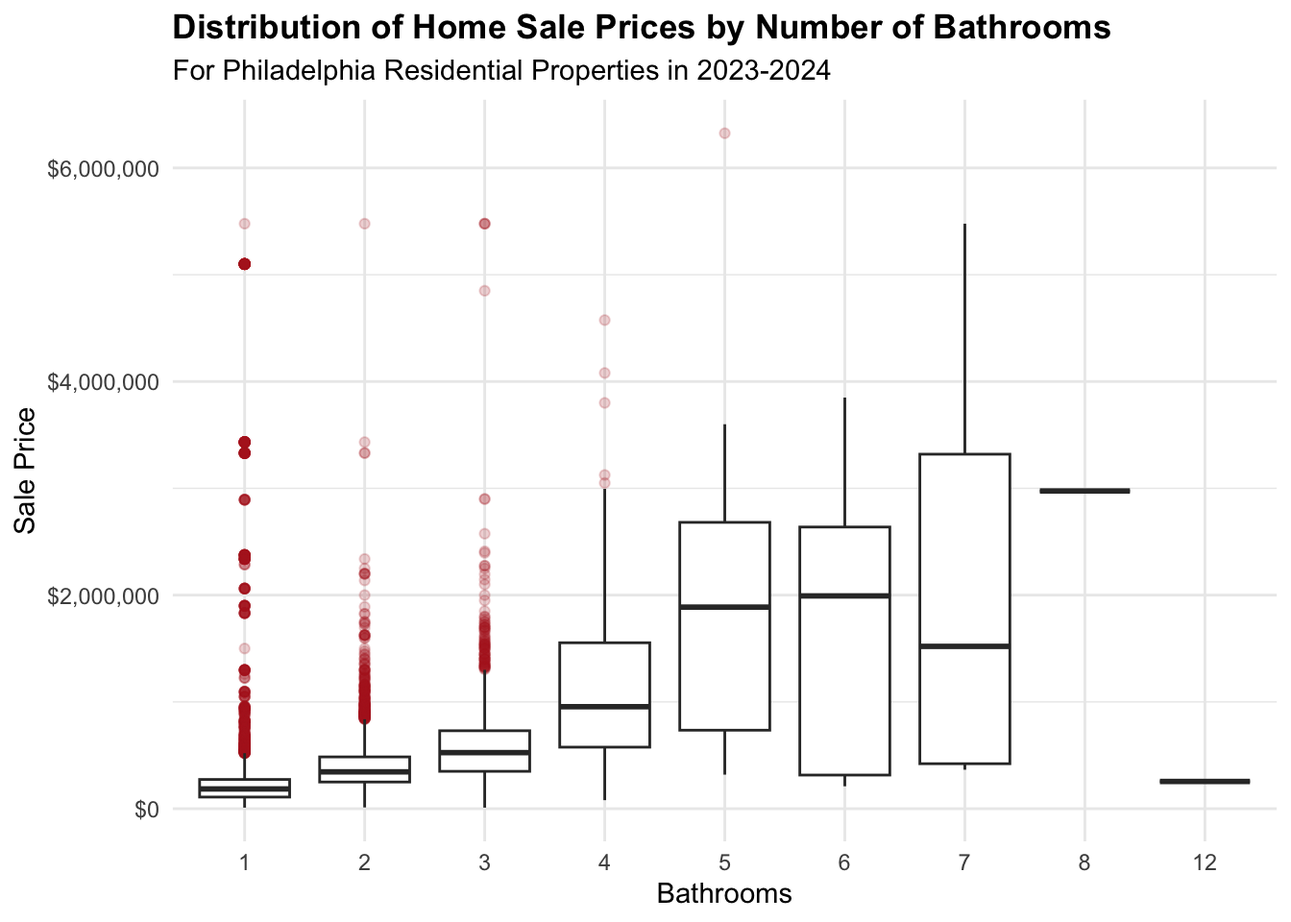
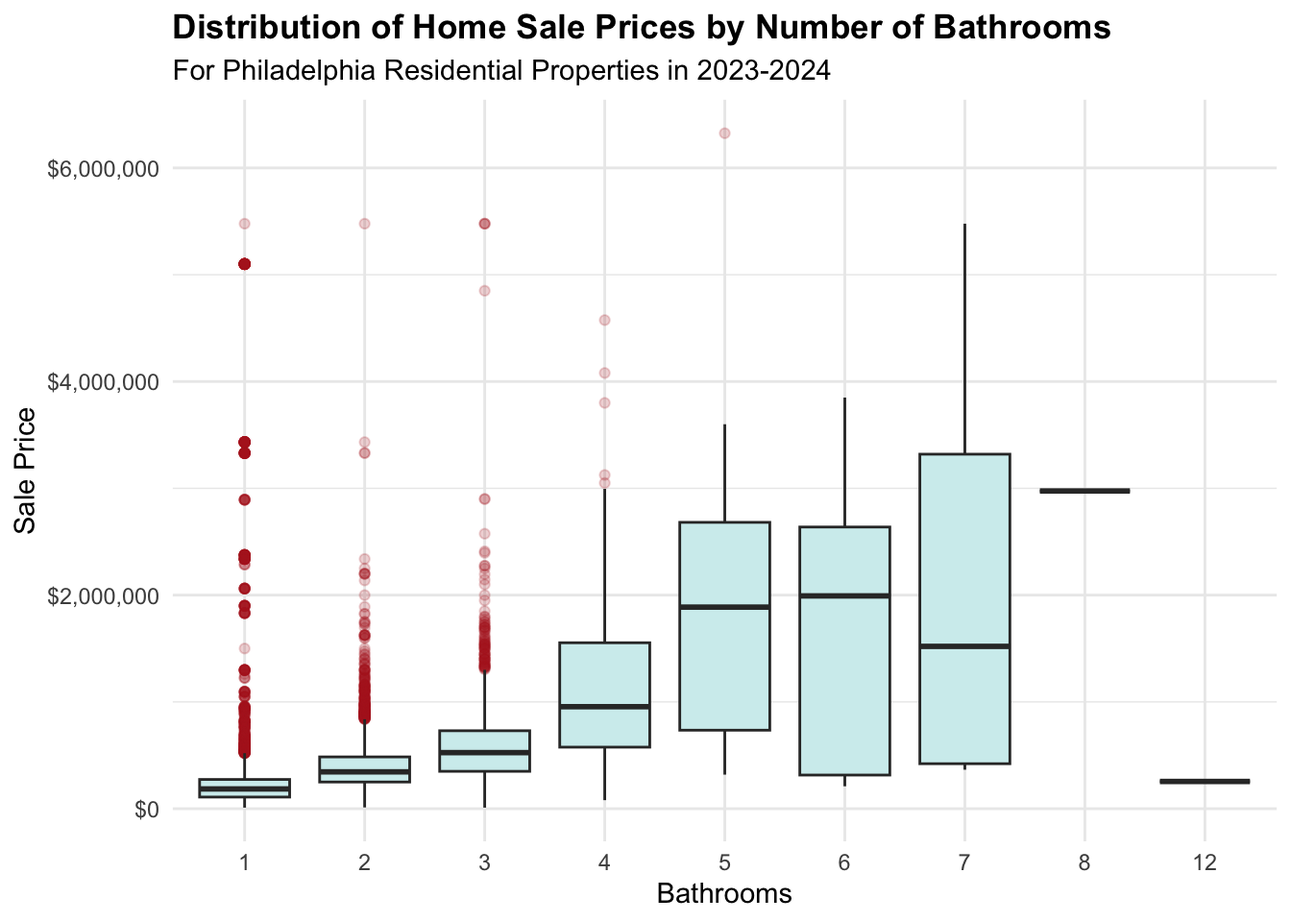
wrap up structural EDA + feature engineer from main dataset

Changed region(s): [[0.25, 0.4688, 0.7812, 0.8438], [0.1562, 0.8438, 0.2188, 0.875]]

diff --git a/docs/appendix/appendix.html b/docs/appendix/appendix.html
@@ -316,17 +316,28 @@ e.g.:
 <section id="distribution-of-sale-prices-histogram" class="level3">
 <h3 class="anchored" data-anchor-id="distribution-of-sale-prices-histogram">Distribution of sale prices (histogram)</h3>
 <div class="cell">
-<div class="code-copy-outer-scaffold"><div class="sourceCode cell-code" id="cb8"><pre class="sourceCode r code-with-copy"><code class="sourceCode r"><span id="cb8-1"><a href="#cb8-1" aria-hidden="true" tabindex="-1"></a><span class="fu">ggplot</span>(phl_sales_clean, <span class="fu">aes</span>(sale_price)) <span class="sc">+</span></span>
-<span id="cb8-2"><a href="#cb8-2" aria-hidden="true" tabindex="-1"></a>  <span class="fu">geom_histogram</span>(<span class="at">bins =</span> <span class="dv">60</span>, <span class="at">fill =</span> <span class="st">"darkseagreen3"</span>, <span class="at">color =</span> <span class="st">"black"</span>) <span class="sc">+</span></span>
-<span id="cb8-3"><a href="#cb8-3" aria-hidden="true" tabindex="-1"></a>  <span class="fu">scale_x_continuous</span>(<span class="at">labels =</span> <span class="fu">label_dollar</span>()) <span class="sc">+</span></span>
-<span id="cb8-4"><a href="#cb8-4" aria-hidden="true" tabindex="-1"></a>  <span class="fu">labs</span>(<span class="at">title =</span> <span class="st">"Distribution of Home Sale Prices"</span>,</span>
-<span id="cb8-5"><a href="#cb8-5" aria-hidden="true" tabindex="-1"></a>       <span class="at">subtitle =</span> <span class="st">"For Philadelphia Residential Properties in 2023-2024"</span>,</span>
-<span id="cb8-6"><a href="#cb8-6" aria-hidden="true" tabindex="-1"></a>       <span class="at">x =</span> <span class="st">"Sale Price"</span>,</span>
-<span id="cb8-7"><a href="#cb8-7" aria-hidden="true" tabindex="-1"></a>       <span class="at">y =</span> <span class="st">"Count"</span>) <span class="sc">+</span></span>
-<span id="cb8-8"><a href="#cb8-8" aria-hidden="true" tabindex="-1"></a>  <span class="fu">theme_minimal</span>() <span class="sc">+</span></span>
-<span id="cb8-9"><a href="#cb8-9" aria-hidden="true" tabindex="-1"></a>  <span class="fu">theme</span>(</span>
-<span id="cb8-10"><a href="#cb8-10" aria-hidden="true" tabindex="-1"></a>    <span class="at">plot.title =</span> <span class="fu">element_text</span>(<span class="at">face =</span> <span class="st">"bold"</span>)</span>
-<span id="cb8-11"><a href="#cb8-11" aria-hidden="true" tabindex="-1"></a>  )</span></code></pre></div><button title="Copy to Clipboard" class="code-copy-button"><i class="bi"></i></button></div>
+<div class="code-copy-outer-scaffold"><div class="sourceCode cell-code" id="cb8"><pre class="sourceCode r code-with-copy"><code class="sourceCode r"><span id="cb8-1"><a href="#cb8-1" aria-hidden="true" tabindex="-1"></a><span class="co"># Calculate the median / mean to plot</span></span>
+<span id="cb8-2"><a href="#cb8-2" aria-hidden="true" tabindex="-1"></a>price_median <span class="ot">&lt;-</span> <span class="fu">median</span>(phl_sales_clean<span class="sc">$</span>sale_price, <span class="at">na.rm =</span> <span class="cn">TRUE</span>)</span>
+<span id="cb8-3"><a href="#cb8-3" aria-hidden="true" tabindex="-1"></a></span>
+<span id="cb8-4"><a href="#cb8-4" aria-hidden="true" tabindex="-1"></a><span class="fu">ggplot</span>(phl_sales_clean, <span class="fu">aes</span>(sale_price)) <span class="sc">+</span></span>
+<span id="cb8-5"><a href="#cb8-5" aria-hidden="true" tabindex="-1"></a>  <span class="fu">geom_histogram</span>(<span class="at">bins =</span> <span class="dv">60</span>, <span class="at">fill =</span> <span class="st">"darkseagreen3"</span>, <span class="at">color =</span> <span class="st">"black"</span>) <span class="sc">+</span></span>
+<span id="cb8-6"><a href="#cb8-6" aria-hidden="true" tabindex="-1"></a>  <span class="fu">geom_vline</span>(<span class="at">xintercept =</span> price_median, <span class="at">linetype =</span> <span class="dv">5</span>) <span class="sc">+</span></span>
+<span id="cb8-7"><a href="#cb8-7" aria-hidden="true" tabindex="-1"></a>  <span class="fu">annotate</span>(<span class="st">"text"</span>,</span>
+<span id="cb8-8"><a href="#cb8-8" aria-hidden="true" tabindex="-1"></a>           <span class="at">x =</span> price_median, </span>
+<span id="cb8-9"><a href="#cb8-9" aria-hidden="true" tabindex="-1"></a>           <span class="at">y =</span> <span class="dv">6200</span>, </span>
+<span id="cb8-10"><a href="#cb8-10" aria-hidden="true" tabindex="-1"></a>           <span class="at">label =</span> <span class="st">"Median"</span>,</span>
+<span id="cb8-11"><a href="#cb8-11" aria-hidden="true" tabindex="-1"></a>           <span class="at">hjust =</span> <span class="sc">-</span><span class="fl">0.2</span>, </span>
+<span id="cb8-12"><a href="#cb8-12" aria-hidden="true" tabindex="-1"></a>           <span class="at">color =</span> <span class="st">"black"</span>, </span>
+<span id="cb8-13"><a href="#cb8-13" aria-hidden="true" tabindex="-1"></a>           <span class="at">size =</span> <span class="dv">3</span>) <span class="sc">+</span></span>
+<span id="cb8-14"><a href="#cb8-14" aria-hidden="true" tabindex="-1"></a>  <span class="fu">scale_x_continuous</span>(<span class="at">labels =</span> <span class="fu">label_dollar</span>()) <span class="sc">+</span></span>
+<span id="cb8-15"><a href="#cb8-15" aria-hidden="true" tabindex="-1"></a>  <span class="fu">labs</span>(<span class="at">title =</span> <span class="st">"Distribution of Home Sale Prices"</span>,</span>
+<span id="cb8-16"><a href="#cb8-16" aria-hidden="true" tabindex="-1"></a>       <span class="at">subtitle =</span> <span class="st">"For Philadelphia Residential Properties in 2023-2024"</span>,</span>
+<span id="cb8-17"><a href="#cb8-17" aria-hidden="true" tabindex="-1"></a>       <span class="at">x =</span> <span class="st">"Sale Price"</span>,</span>
+<span id="cb8-18"><a href="#cb8-18" aria-hidden="true" tabindex="-1"></a>       <span class="at">y =</span> <span class="st">"Count"</span>) <span class="sc">+</span></span>
+<span id="cb8-19"><a href="#cb8-19" aria-hidden="true" tabindex="-1"></a>  <span class="fu">theme_minimal</span>() <span class="sc">+</span></span>
+<span id="cb8-20"><a href="#cb8-20" aria-hidden="true" tabindex="-1"></a>  <span class="fu">theme</span>(</span>
+<span id="cb8-21"><a href="#cb8-21" aria-hidden="true" tabindex="-1"></a>    <span class="at">plot.title =</span> <span class="fu">element_text</span>(<span class="at">face =</span> <span class="st">"bold"</span>)</span>
+<span id="cb8-22"><a href="#cb8-22" aria-hidden="true" tabindex="-1"></a>  )</span></code></pre></div><button title="Copy to Clipboard" class="code-copy-button"><i class="bi"></i></button></div>
 <div class="cell-output-display">
 <div>
 <figure class="figure">
@@ -341,26 +352,26 @@ e.g.:
 <span id="cb9-2"><a href="#cb9-2" aria-hidden="true" tabindex="-1"></a>price_95_perc <span class="ot">&lt;-</span> <span class="fu">quantile</span>(phl_sales_clean<span class="sc">$</span>sale_price, <span class="fl">0.95</span>, <span class="at">na.rm =</span> <span class="cn">TRUE</span>)</span>
 <span id="cb9-3"><a href="#cb9-3" aria-hidden="true" tabindex="-1"></a>df_95_exclude <span class="ot">&lt;-</span> <span class="fu">filter</span>(phl_sales_clean, sale_price <span class="sc">&lt;=</span> price_95_perc)</span>
 <span id="cb9-4"><a href="#cb9-4" aria-hidden="true" tabindex="-1"></a></span>
-<span id="cb9-5"><a href="#cb9-5" aria-hidden="true" tabindex="-1"></a><span class="co"># Calculate the median / mean to plot (does not include top 5%)</span></span>
-<span id="cb9-6"><a href="#cb9-6" aria-hidden="true" tabindex="-1"></a>price_median <span class="ot">&lt;-</span> <span class="fu">median</span>(phl_sales_clean<span class="sc">$</span>sale_price, <span class="at">na.rm =</span> <span class="cn">TRUE</span>)</span>
-<span id="cb9-7"><a href="#cb9-7" aria-hidden="true" tabindex="-1"></a>price_mean <span class="ot">&lt;-</span> <span class="fu">mean</span>(phl_sales_clean<span class="sc">$</span>sale_price, <span class="at">na.rm =</span> <span class="cn">TRUE</span>)</span>
+<span id="cb9-5"><a href="#cb9-5" aria-hidden="true" tabindex="-1"></a><span class="co"># Calculate the median / mean to plot from trimmed distribution</span></span>
+<span id="cb9-6"><a href="#cb9-6" aria-hidden="true" tabindex="-1"></a>price_median_95_exc <span class="ot">&lt;-</span> <span class="fu">median</span>(df_95_exclude<span class="sc">$</span>sale_price, <span class="at">na.rm =</span> <span class="cn">TRUE</span>)</span>
+<span id="cb9-7"><a href="#cb9-7" aria-hidden="true" tabindex="-1"></a>price_mean_95_exc <span class="ot">&lt;-</span> <span class="fu">mean</span>(df_95_exclude<span class="sc">$</span>sale_price, <span class="at">na.rm =</span> <span class="cn">TRUE</span>)</span>
 <span id="cb9-8"><a href="#cb9-8" aria-hidden="true" tabindex="-1"></a></span>
 <span id="cb9-9"><a href="#cb9-9" aria-hidden="true" tabindex="-1"></a><span class="fu">ggplot</span>(df_95_exclude, <span class="fu">aes</span>(sale_price)) <span class="sc">+</span></span>
 <span id="cb9-10"><a href="#cb9-10" aria-hidden="true" tabindex="-1"></a>  <span class="fu">geom_histogram</span>(<span class="at">bins =</span> <span class="dv">20</span>, <span class="at">fill =</span> <span class="st">"darkseagreen3"</span>, <span class="at">color =</span> <span class="st">"black"</span>) <span class="sc">+</span></span>
-<span id="cb9-11"><a href="#cb9-11" aria-hidden="true" tabindex="-1"></a>  <span class="fu">geom_vline</span>(<span class="at">xintercept =</span> price_mean, <span class="at">linetype =</span> <span class="dv">5</span>) <span class="sc">+</span></span>
-<span id="cb9-12"><a href="#cb9-12" aria-hidden="true" tabindex="-1"></a>  <span class="fu">geom_vline</span>(<span class="at">xintercept =</span> price_median, <span class="at">linetype =</span> <span class="dv">5</span>) <span class="sc">+</span></span>
+<span id="cb9-11"><a href="#cb9-11" aria-hidden="true" tabindex="-1"></a>  <span class="fu">geom_vline</span>(<span class="at">xintercept =</span> price_mean_95_exc, <span class="at">linetype =</span> <span class="dv">5</span>) <span class="sc">+</span></span>
+<span id="cb9-12"><a href="#cb9-12" aria-hidden="true" tabindex="-1"></a>  <span class="fu">geom_vline</span>(<span class="at">xintercept =</span> price_median_95_exc, <span class="at">linetype =</span> <span class="dv">5</span>) <span class="sc">+</span></span>
 <span id="cb9-13"><a href="#cb9-13" aria-hidden="true" tabindex="-1"></a>  <span class="fu">annotate</span>(<span class="st">"text"</span>,</span>
-<span id="cb9-14"><a href="#cb9-14" aria-hidden="true" tabindex="-1"></a>           <span class="at">x =</span> price_mean,</span>
-<span id="cb9-15"><a href="#cb9-15" aria-hidden="true" tabindex="-1"></a>           <span class="at">y =</span> <span class="dv">1700</span>,</span>
+<span id="cb9-14"><a href="#cb9-14" aria-hidden="true" tabindex="-1"></a>           <span class="at">x =</span> price_mean_95_exc,</span>
+<span id="cb9-15"><a href="#cb9-15" aria-hidden="true" tabindex="-1"></a>           <span class="at">y =</span> <span class="dv">2400</span>,</span>
 <span id="cb9-16"><a href="#cb9-16" aria-hidden="true" tabindex="-1"></a>           <span class="at">label =</span> <span class="st">"Mean"</span>, </span>
 <span id="cb9-17"><a href="#cb9-17" aria-hidden="true" tabindex="-1"></a>           <span class="at">hjust =</span> <span class="sc">-</span> <span class="fl">0.1</span>, </span>
 <span id="cb9-18"><a href="#cb9-18" aria-hidden="true" tabindex="-1"></a>           <span class="at">color =</span> <span class="st">"black"</span>, </span>
 <span id="cb9-19"><a href="#cb9-19" aria-hidden="true" tabindex="-1"></a>           <span class="at">size =</span> <span class="dv">3</span>) <span class="sc">+</span></span>
 <span id="cb9-20"><a href="#cb9-20" aria-hidden="true" tabindex="-1"></a>  <span class="fu">annotate</span>(<span class="st">"text"</span>,</span>
-<span id="cb9-21"><a href="#cb9-21" aria-hidden="true" tabindex="-1"></a>           <span class="at">x =</span> price_median, </span>
-<span id="cb9-22"><a href="#cb9-22" aria-hidden="true" tabindex="-1"></a>           <span class="at">y =</span> <span class="dv">2400</span>, </span>
+<span id="cb9-21"><a href="#cb9-21" aria-hidden="true" tabindex="-1"></a>           <span class="at">x =</span> price_median_95_exc, </span>
+<span id="cb9-22"><a href="#cb9-22" aria-hidden="true" tabindex="-1"></a>           <span class="at">y =</span> <span class="dv">2450</span>, </span>
 <span id="cb9-23"><a href="#cb9-23" aria-hidden="true" tabindex="-1"></a>           <span class="at">label =</span> <span class="st">"Median"</span>,</span>
-<span id="cb9-24"><a href="#cb9-24" aria-hidden="true" tabindex="-1"></a>           <span class="at">hjust =</span> <span class="sc">-</span> <span class="fl">0.1</span>, </span>
+<span id="cb9-24"><a href="#cb9-24" aria-hidden="true" tabindex="-1"></a>           <span class="at">hjust =</span> <span class="fl">1.25</span>, </span>
 <span id="cb9-25"><a href="#cb9-25" aria-hidden="true" tabindex="-1"></a>           <span class="at">color =</span> <span class="st">"black"</span>, </span>
 <span id="cb9-26"><a href="#cb9-26" aria-hidden="true" tabindex="-1"></a>           <span class="at">size =</span> <span class="dv">3</span>) <span class="sc">+</span></span>
 <span id="cb9-27"><a href="#cb9-27" aria-hidden="true" tabindex="-1"></a>  <span class="fu">scale_x_continuous</span>(<span class="at">labels =</span> <span class="fu">label_dollar</span>()) <span class="sc">+</span></span>
@@ -382,7 +393,7 @@ e.g.:
 </div>
 </div>
 </div>
-<p><strong>Interpretation:</strong> In this revised histogram, we get a much better sense of how the sales prices are distributed without the presence of extreme outliers. As we saw before, the data is definitely right-skewed since the median ($ 235250) is less than the mean ($ 322231) even when removing large outliers from the top 5% of the distribution. We can visualize that the standard housing market in Philadelphia from 2023-2024 ranges between $0 and $800,000. The distribution has a single peak around $200,000, indicating that it is unimodal with a typical (or most common) home sale price in the realm of $150,000 to $250,000. This is an indication that it may be best to omit these significant outliers from our dataset when building our model for home sale price prediction. The homes on the higher end of the sale price distribution are determined by a combination of structural features (such total livable area) and spatial features (such as nearby city centers) that drive up the prices of these homes. The goal of this study is to determine what features, both structural and spatial, are significant in predicting home sale prices in Philadelphia and create an accurate model to help policy makers in valuating property tax assessments.</p>
+<p><strong>Interpretation:</strong> In this revised histogram, we get a much better sense of how the sales prices are distributed without the presence of extreme outliers. As we saw before, the data is definitely right-skewed since the median ($235,250) is less than the mean ($322,231) even when removing large outliers from the top 5% of the distribution. We can visualize that the standard housing market in Philadelphia from 2023-2024 ranges between $0 and $800,000. The distribution has a single peak around $200,000, indicating that it is unimodal with a typical (or most common) home sale price in the realm of $150,000 to $250,000. This is an indication that it may be best to omit these significant outliers from our dataset when building our model for home sale price prediction. The homes on the higher end of the sale price distribution are determined by a combination of structural features (such total livable area) and spatial features (such as nearby city centers) that drive up the prices of these homes. The goal of this study is to determine what features, both structural and spatial, are significant in predicting home sale prices in Philadelphia and create an accurate model to help policy makers in valuating property tax assessments.</p>
 </section>
 <section id="geographic-distribution-map" class="level3">
 <h3 class="anchored" data-anchor-id="geographic-distribution-map">Geographic distribution (map)</h3>
@@ -394,7 +405,7 @@ e.g.:
 <h4 class="anchored" data-anchor-id="number-of-bathrooms">1. Number of Bathrooms</h4>
 <div class="cell">
 <div class="code-copy-outer-scaffold"><div class="sourceCode cell-code" id="cb10"><pre class="sourceCode r code-with-copy"><code class="sourceCode r"><span id="cb10-1"><a href="#cb10-1" aria-hidden="true" tabindex="-1"></a><span class="fu">ggplot</span>(phl_sales_clean, <span class="fu">aes</span>(<span class="at">x =</span> <span class="fu">factor</span>(number_of_bathrooms), <span class="at">y =</span> sale_price)) <span class="sc">+</span></span>
-<span id="cb10-2"><a href="#cb10-2" aria-hidden="true" tabindex="-1"></a>  <span class="fu">geom_boxplot</span>(<span class="at">outlier.color =</span> <span class="st">"firebrick"</span>, <span class="at">outlier.alpha =</span> <span class="fl">0.2</span>) <span class="sc">+</span></span>
+<span id="cb10-2"><a href="#cb10-2" aria-hidden="true" tabindex="-1"></a>  <span class="fu">geom_boxplot</span>(<span class="at">fill =</span> <span class="st">"lightcyan2"</span>, <span class="at">outlier.color =</span> <span class="st">"firebrick"</span>, <span class="at">outlier.alpha =</span> <span class="fl">0.2</span>) <span class="sc">+</span></span>
 <span id="cb10-3"><a href="#cb10-3" aria-hidden="true" tabindex="-1"></a>  <span class="fu">scale_y_continuous</span>(<span class="at">labels =</span> scales<span class="sc">::</span><span class="fu">label_dollar</span>()) <span class="sc">+</span></span>
 <span id="cb10-4"><a href="#cb10-4" aria-hidden="true" tabindex="-1"></a>  <span class="fu">labs</span>(<span class="at">title =</span> <span class="st">"Distribution of Home Sale Prices by Number of Bathrooms"</span>, </span>
 <span id="cb10-5"><a href="#cb10-5" aria-hidden="true" tabindex="-1"></a>       <span class="at">subtitle =</span> <span class="st">"For Philadelphia Residential Properties in 2023-2024"</span>,</span>
@@ -415,7 +426,7 @@ e.g.:
 <p><strong>Interpretation:</strong> Since number of bathrooms is a discrete variable, a scatter plot is not suitable to visualize this predictor’s relationship with the target variable of sale price; therefore, we opted to use box plots instead. In this first plot, we see a distinct positive relationship between number of bathrooms and home sale price. Intuitively, this makes sense since homes with more bathrooms should on average sell at higher prices. Another trend is that there are more outliers in homes with less bathrooms (between 1 and 3). These outliers are likely due to external spatial factors such as neighborhoods. Housing prices tend to surge in highly desirable neighborhoods such as Rittenhouse Square, which explains the presence of many outliers plotted above the upper bound of these boxplots. Another trend is that variance of sale prices begins to significantly widen for homes with more than 3 bedrooms. This suggests that larger homes with more bathrooms experience more price dispersion relative to those with less bathrooms. Lastly, it is worth noting that there are very few observations of homes with 8 or 12 bathrooms, indicating that it would be beneficial to remove them from our dataset to better capture the true relationship between price and number of bathrooms.</p>
 <div class="cell">
 <div class="code-copy-outer-scaffold"><div class="sourceCode cell-code" id="cb11"><pre class="sourceCode r code-with-copy"><code class="sourceCode r"><span id="cb11-1"><a href="#cb11-1" aria-hidden="true" tabindex="-1"></a><span class="fu">ggplot</span>(phl_sales_clean, <span class="fu">aes</span>(<span class="at">x =</span> <span class="fu">factor</span>(number_of_bathrooms), <span class="at">y =</span> <span class="fu">log</span>(sale_price))) <span class="sc">+</span></span>
-<span id="cb11-2"><a href="#cb11-2" aria-hidden="true" tabindex="-1"></a>  <span class="fu">geom_boxplot</span>(<span class="at">outlier.color =</span> <span class="st">"firebrick"</span>, <span class="at">outlier.alpha =</span> <span class="fl">0.2</span>) <span class="sc">+</span></span>
+<span id="cb11-2"><a href="#cb11-2" aria-hidden="true" tabindex="-1"></a>  <span class="fu">geom_boxplot</span>(<span class="at">fill =</span> <span class="st">"lightcyan2"</span>, <span class="at">outlier.color =</span> <span class="st">"firebrick"</span>, <span class="at">outlier.alpha =</span> <span class="fl">0.2</span>) <span class="sc">+</span></span>
 <span id="cb11-3"><a href="#cb11-3" aria-hidden="true" tabindex="-1"></a>  <span class="fu">scale_y_continuous</span>(<span class="at">labels =</span> scales<span class="sc">::</span><span class="fu">label_dollar</span>()) <span class="sc">+</span></span>
 <span id="cb11-4"><a href="#cb11-4" aria-hidden="true" tabindex="-1"></a>  <span class="fu">labs</span>(<span class="at">title =</span> <span class="st">"Distribution of Log(Home Sale Prices) by Number of Bathrooms"</span>, </span>
 <span id="cb11-5"><a href="#cb11-5" aria-hidden="true" tabindex="-1"></a>       <span class="at">subtitle =</span> <span class="st">"For Philadelphia Residential Properties in 2023-2024"</span>,</span>
@@ -439,7 +450,7 @@ e.g.:
 <h4 class="anchored" data-anchor-id="number-of-bedrooms">2. Number of Bedrooms</h4>
 <div class="cell">
 <div class="code-copy-outer-scaffold"><div class="sourceCode cell-code" id="cb12"><pre class="sourceCode r code-with-copy"><code class="sourceCode r"><span id="cb12-1"><a href="#cb12-1" aria-hidden="true" tabindex="-1"></a><span class="fu">ggplot</span>(phl_sales_clean, <span class="fu">aes</span>(<span class="at">x =</span> <span class="fu">factor</span>(number_of_bedrooms), <span class="at">y =</span> sale_price)) <span class="sc">+</span></span>
-<span id="cb12-2"><a href="#cb12-2" aria-hidden="true" tabindex="-1"></a>  <span class="fu">geom_boxplot</span>(<span class="at">outlier.color =</span> <span class="st">"firebrick"</span>, <span class="at">outlier.alpha =</span> <span class="fl">0.2</span>) <span class="sc">+</span></span>
+<span id="cb12-2"><a href="#cb12-2" aria-hidden="true" tabindex="-1"></a>  <span class="fu">geom_boxplot</span>(<span class="at">fill =</span> <span class="st">"lightcyan2"</span>, <span class="at">outlier.color =</span> <span class="st">"firebrick"</span>, <span class="at">outlier.alpha =</span> <span class="fl">0.2</span>) <span class="sc">+</span></span>
 <span id="cb12-3"><a href="#cb12-3" aria-hidden="true" tabindex="-1"></a>  <span class="fu">scale_y_continuous</span>(<span class="at">labels =</span> scales<span class="sc">::</span><span class="fu">label_dollar</span>()) <span class="sc">+</span></span>
 <span id="cb12-4"><a href="#cb12-4" aria-hidden="true" tabindex="-1"></a>  <span class="fu">labs</span>(<span class="at">title =</span> <span class="st">"Distribution of Home Sale Prices by Number of Bedrooms"</span>, </span>
 <span id="cb12-5"><a href="#cb12-5" aria-hidden="true" tabindex="-1"></a>       <span class="at">subtitle =</span> <span class="st">"For Philadelphia Residential Properties in 2023-2024"</span>,</span>
@@ -460,7 +471,7 @@ e.g.:
 <p><strong>Interpretation:</strong> The above plot to measure the relationship between home sale price and number of bedrooms is positive, indicating that homes with more bedrooms tend to sell at higher prices. However, this relationship looks significantly less strong than the relationship between sale price and number of bathrooms. We observe many outliers across homes with various bedroom sizes, most notably those with 2 - 5 bedrooms. The intuition is that these size households are more likely to be sold on the market with higher variability in sales prices, particularly in the upper tail, demonstrating right-skew. These high outliers represent luxury properties that sell for abnormally high sale prices due to other external variables like neighborhood, size etc. Again, we have a small number of very large homes with 10, 11, and 12 bedrooms that are candidates for removal before building our model.</p>
 <div class="cell">
 <div class="code-copy-outer-scaffold"><div class="sourceCode cell-code" id="cb13"><pre class="sourceCode r code-with-copy"><code class="sourceCode r"><span id="cb13-1"><a href="#cb13-1" aria-hidden="true" tabindex="-1"></a><span class="fu">ggplot</span>(phl_sales_clean, <span class="fu">aes</span>(<span class="at">x =</span> <span class="fu">factor</span>(number_of_bedrooms), <span class="at">y =</span> <span class="fu">log</span>(sale_price))) <span class="sc">+</span></span>
-<span id="cb13-2"><a href="#cb13-2" aria-hidden="true" tabindex="-1"></a>  <span class="fu">geom_boxplot</span>(<span class="at">outlier.color =</span> <span class="st">"firebrick"</span>, <span class="at">outlier.alpha =</span> <span class="fl">0.2</span>) <span class="sc">+</span></span>
+<span id="cb13-2"><a href="#cb13-2" aria-hidden="true" tabindex="-1"></a>  <span class="fu">geom_boxplot</span>(<span class="at">fill =</span> <span class="st">"lightcyan2"</span>, <span class="at">outlier.color =</span> <span class="st">"firebrick"</span>, <span class="at">outlier.alpha =</span> <span class="fl">0.2</span>) <span class="sc">+</span></span>
 <span id="cb13-3"><a href="#cb13-3" aria-hidden="true" tabindex="-1"></a>  <span class="fu">scale_y_continuous</span>(<span class="at">labels =</span> scales<span class="sc">::</span><span class="fu">label_dollar</span>()) <span class="sc">+</span></span>
 <span id="cb13-4"><a href="#cb13-4" aria-hidden="true" tabindex="-1"></a>  <span class="fu">labs</span>(<span class="at">title =</span> <span class="st">"Distribution of Log(Home Sale Prices) by Number of Bedrooms"</span>, </span>
 <span id="cb13-5"><a href="#cb13-5" aria-hidden="true" tabindex="-1"></a>       <span class="at">subtitle =</span> <span class="st">"For Philadelphia Residential Properties in 2023-2024"</span>,</span>
@@ -506,6 +517,7 @@ e.g.:
 </div>
 </div>
 </div>
+<p><strong>Interpretation:</strong> The plot represents the relationship between the non-transformed target sale price and predictor total livable area. We can see that the relationship to be positive with evidence of heavy right-skew with the majority of data points clustered in the bottom-left with less than 3000 sq ft of area and $500,000 price. Also, we notice that although the relationship is positive, it does not appear to be linear, a violation of a crucial assumption in linear regression. As before, there is the presence of luxury homes as large outliers that can pull the regression line upward, which would create biased estimates on model coefficients.</p>
 <div class="cell">
 <div class="code-copy-outer-scaffold"><div class="sourceCode cell-code" id="cb16"><pre class="sourceCode r code-with-copy"><code class="sourceCode r"><span id="cb16-1"><a href="#cb16-1" aria-hidden="true" tabindex="-1"></a><span class="fu">ggplot</span>(phl_sales_clean, <span class="fu">aes</span>(<span class="at">x =</span> <span class="fu">log</span>(total_livable_area), <span class="fu">log</span>(sale_price))) <span class="sc">+</span></span>
 <span id="cb16-2"><a href="#cb16-2" aria-hidden="true" tabindex="-1"></a>  <span class="fu">geom_point</span>(<span class="at">alpha =</span> <span class="fl">0.075</span>, <span class="at">size =</span> <span class="dv">1</span>) <span class="sc">+</span></span>
@@ -530,7 +542,7 @@ e.g.:
 </div>
 </div>
 </div>
-<p><strong>Interpretation:</strong></p>
+<p><strong>Interpretation:</strong> By log-transforming both sale price and total livable area, we visualize a relationship that appears much more linear. As we saw before, there seem to be more variability in homes with smaller areas that are more common in this dataset. The transformation has more of a uniform, symmetric spread of points above and below the regression line. We can interpret this relationship as increasing the percentage of total livable area will lead to some constant increase in the percentage of sale price with this transformation. Again, through the log-transformation of our target variable, we observe a more linear relationship, strengthening the notion for the need for this transformation in our modeling phase.</p>
 </section>
 <section id="age-sale-date---year-built" class="level4">
 <h4 class="anchored" data-anchor-id="age-sale-date---year-built">4. Age (Sale Date - Year Built)</h4>
@@ -554,10 +566,11 @@ e.g.:
 </div>
 </div>
 </div>
+<p><strong>Interpretation:</strong> In the above plot, it does not reveal any significant relationship between sale price and home age. The main issue is that most of the data is clustered at the bottom of the figure at low sale prices regardless of age. There are some noticeable outliers along with increased variability for middle-aged homes around 75 to 125 years old. In general, it seems that there newer homes (lower age) demonstrate somewhat higher price levels on average. However, from this plot alone, it is difficult to verify.</p>
 <div class="cell">
 <div class="code-copy-outer-scaffold"><div class="sourceCode cell-code" id="cb19"><pre class="sourceCode r code-with-copy"><code class="sourceCode r"><span id="cb19-1"><a href="#cb19-1" aria-hidden="true" tabindex="-1"></a><span class="fu">ggplot</span>(phl_sales_clean, <span class="fu">aes</span>(<span class="at">x =</span> age, <span class="fu">log</span>(sale_price))) <span class="sc">+</span></span>
 <span id="cb19-2"><a href="#cb19-2" aria-hidden="true" tabindex="-1"></a>  <span class="fu">geom_point</span>(<span class="at">alpha =</span> <span class="fl">0.075</span>, <span class="at">size =</span> <span class="dv">1</span>) <span class="sc">+</span></span>
-<span id="cb19-3"><a href="#cb19-3" aria-hidden="true" tabindex="-1"></a>  <span class="fu">geom_smooth</span>(<span class="at">method =</span> <span class="st">"loess"</span>, <span class="at">span =</span> <span class="fl">0.7</span>, <span class="at">se =</span> <span class="cn">FALSE</span>, <span class="at">color =</span> <span class="st">"firebrick"</span>) <span class="sc">+</span></span>
+<span id="cb19-3"><a href="#cb19-3" aria-hidden="true" tabindex="-1"></a>  <span class="fu">geom_smooth</span>(<span class="at">method =</span> <span class="st">"loess"</span>, <span class="at">span =</span> <span class="fl">0.75</span>, <span class="at">se =</span> <span class="cn">FALSE</span>, <span class="at">color =</span> <span class="st">"firebrick"</span>) <span class="sc">+</span></span>
 <span id="cb19-4"><a href="#cb19-4" aria-hidden="true" tabindex="-1"></a>  <span class="fu">scale_y_continuous</span>(<span class="at">labels =</span> <span class="fu">label_dollar</span>()) <span class="sc">+</span></span>
 <span id="cb19-5"><a href="#cb19-5" aria-hidden="true" tabindex="-1"></a>  <span class="fu">labs</span>(<span class="at">title =</span> <span class="st">"Distribution of Log(Home Sale Prices) by Age"</span>, </span>
 <span id="cb19-6"><a href="#cb19-6" aria-hidden="true" tabindex="-1"></a>       <span class="at">subtitle =</span> <span class="st">"For Philadelphia Residential Properties in 2023-2024"</span>,</span>
@@ -578,7 +591,38 @@ e.g.:
 </div>
 </div>
 </div>
-<p><strong>Interpretation:</strong></p>
+<p><strong>Interpretation:</strong> After doing the trick to log-transform sale price, we see an interesting shape that somewhat resembles a crucial theory we learned in lecture. This theory outlines that Age has a U-shaped effect on price. Newer homes are sought after due to recent construction with more modern amenities, whereas very old homes are considered to have historic value or charm. The middle-aged homes are therefore the least desirable homes that likely are not modernized with significant wear and tear without the allure of a historic home. While this theory makes sense, it somewhat breaks down for these middle aged homes as their sale prices experience much more variability. This is likely due to a majority of samples in our dataset within this range whose sale price cannot be explained by age alone. Therefore, it is wise to proceed with caution with using the age variable in building our predictive model.</p>
+<div class="cell">
+<div class="code-copy-outer-scaffold"><div class="sourceCode cell-code" id="cb21"><pre class="sourceCode r code-with-copy"><code class="sourceCode r"><span id="cb21-1"><a href="#cb21-1" aria-hidden="true" tabindex="-1"></a>df_age_groups <span class="ot">&lt;-</span> phl_sales_clean <span class="sc">|&gt;</span></span>
+<span id="cb21-2"><a href="#cb21-2" aria-hidden="true" tabindex="-1"></a>  <span class="fu">mutate</span>(</span>
+<span id="cb21-3"><a href="#cb21-3" aria-hidden="true" tabindex="-1"></a>    <span class="at">age_group =</span> <span class="fu">case_when</span>(</span>
+<span id="cb21-4"><a href="#cb21-4" aria-hidden="true" tabindex="-1"></a>      age <span class="sc">&lt;</span> <span class="dv">20</span> <span class="sc">~</span> <span class="st">"New (&lt;20 years)"</span>,</span>
+<span id="cb21-5"><a href="#cb21-5" aria-hidden="true" tabindex="-1"></a>      age <span class="sc">&lt;</span> <span class="dv">80</span> <span class="sc">~</span> <span class="st">"Middle (20–80 years)"</span>,</span>
+<span id="cb21-6"><a href="#cb21-6" aria-hidden="true" tabindex="-1"></a>      age <span class="sc">&gt;=</span> <span class="dv">80</span> <span class="sc">~</span> <span class="st">"Historic (&gt;80 years)"</span></span>
+<span id="cb21-7"><a href="#cb21-7" aria-hidden="true" tabindex="-1"></a>    ),</span>
+<span id="cb21-8"><a href="#cb21-8" aria-hidden="true" tabindex="-1"></a>    <span class="at">age_group =</span> <span class="fu">factor</span>(age_group, <span class="at">levels =</span> <span class="fu">c</span>(<span class="st">"New (&lt;20 years)"</span>, <span class="st">"Middle (20–80 years)"</span>, <span class="st">"Historic (&gt;80 years)"</span>))</span>
+<span id="cb21-9"><a href="#cb21-9" aria-hidden="true" tabindex="-1"></a>  )</span>
+<span id="cb21-10"><a href="#cb21-10" aria-hidden="true" tabindex="-1"></a></span>
+<span id="cb21-11"><a href="#cb21-11" aria-hidden="true" tabindex="-1"></a><span class="fu">ggplot</span>(df_age_groups, <span class="fu">aes</span>(age_group, <span class="fu">log</span>(sale_price))) <span class="sc">+</span></span>
+<span id="cb21-12"><a href="#cb21-12" aria-hidden="true" tabindex="-1"></a>  <span class="fu">geom_boxplot</span>(<span class="at">fill =</span> <span class="st">"lightcyan2"</span>, <span class="at">outlier.colour =</span> <span class="st">"firebrick"</span>, <span class="at">outlier.alpha =</span> <span class="fl">0.2</span>) <span class="sc">+</span></span>
+<span id="cb21-13"><a href="#cb21-13" aria-hidden="true" tabindex="-1"></a>  <span class="fu">labs</span>(</span>
+<span id="cb21-14"><a href="#cb21-14" aria-hidden="true" tabindex="-1"></a>    <span class="at">title =</span> <span class="st">"Distribution of Log(Sale Price) by Age Group"</span>,</span>
+<span id="cb21-15"><a href="#cb21-15" aria-hidden="true" tabindex="-1"></a>    <span class="at">subtitle =</span> <span class="st">"Philadelphia Residential Sales in 2023–2024"</span>,</span>
+<span id="cb21-16"><a href="#cb21-16" aria-hidden="true" tabindex="-1"></a>    <span class="at">x =</span> <span class="st">"Age Group"</span>, <span class="at">y =</span> <span class="st">"log(Sale Price)"</span>,</span>
+<span id="cb21-17"><a href="#cb21-17" aria-hidden="true" tabindex="-1"></a>  ) <span class="sc">+</span></span>
+<span id="cb21-18"><a href="#cb21-18" aria-hidden="true" tabindex="-1"></a>  <span class="fu">theme_minimal</span>() <span class="sc">+</span></span>
+<span id="cb21-19"><a href="#cb21-19" aria-hidden="true" tabindex="-1"></a>  <span class="fu">theme</span>(</span>
+<span id="cb21-20"><a href="#cb21-20" aria-hidden="true" tabindex="-1"></a>    <span class="at">plot.title =</span> <span class="fu">element_text</span>(<span class="at">face =</span> <span class="st">"bold"</span>)</span>
+<span id="cb21-21"><a href="#cb21-21" aria-hidden="true" tabindex="-1"></a>  )</span></code></pre></div><button title="Copy to Clipboard" class="code-copy-button"><i class="bi"></i></button></div>
+<div class="cell-output-display">
+<div>
+<figure class="figure">
+<p><img src="appendix_files/figure-html/unnamed-chunk-23-1.png" class="img-fluid figure-img" width="672"></p>
+</figure>
+</div>
+</div>
+</div>
+<p><strong>Interpretation:</strong> When we engineer a new age group feature, the U-shaped distribution does not appear to be valid in the case of our dataset. Using the age segmentations defined in class, it now appears as there is an inverse (negative) relationship between log(sale price) and age group, not a U-shape distribution. One hypothesis is that very old buildings in Philadelphia are too worn down or don’t hold enough historic value to counteract its age. Whatever the reason may be, it seems that engineering a feature for age group is preferred over using age directly and to expect increasing age to a home to depreciate its value over time.</p>
 </section>
 </section>
 <section id="price-vs.-spatial-features" class="level3">
@@ -592,12 +636,27 @@ e.g.:
 </section>
 <section id="phase-3-feature-engineering" class="level1">
 <h1>PHASE 3: FEATURE ENGINEERING</h1>
-<section id="final-data-cleaning-from-eda" class="level3">
-<h3 class="anchored" data-anchor-id="final-data-cleaning-from-eda">Final Data Cleaning from EDA</h3>
+<section id="final-data-cleaning-from-structural-eda" class="level3">
+<h3 class="anchored" data-anchor-id="final-data-cleaning-from-structural-eda">Final Data Cleaning from Structural EDA</h3>
 <div class="cell">
-<div class="code-copy-outer-scaffold"><div class="sourceCode cell-code" id="cb21"><pre class="sourceCode r code-with-copy"><code class="sourceCode r"><span id="cb21-1"><a href="#cb21-1" aria-hidden="true" tabindex="-1"></a><span class="co"># Remove bathrooms &gt; 7</span></span>
-<span id="cb21-2"><a href="#cb21-2" aria-hidden="true" tabindex="-1"></a></span>
-<span id="cb21-3"><a href="#cb21-3" aria-hidden="true" tabindex="-1"></a><span class="co"># Remove bedrooms &gt; 9</span></span></code></pre></div><button title="Copy to Clipboard" class="code-copy-button"><i class="bi"></i></button></div>
+<div class="code-copy-outer-scaffold"><div class="sourceCode cell-code" id="cb22"><pre class="sourceCode r code-with-copy"><code class="sourceCode r"><span id="cb22-1"><a href="#cb22-1" aria-hidden="true" tabindex="-1"></a>phl_sales_final <span class="ot">&lt;-</span> phl_sales_clean <span class="sc">|&gt;</span></span>
+<span id="cb22-2"><a href="#cb22-2" aria-hidden="true" tabindex="-1"></a>  <span class="fu">filter</span>(</span>
+<span id="cb22-3"><a href="#cb22-3" aria-hidden="true" tabindex="-1"></a>    <span class="co"># Remove top 1% of sale price (extreme outliers)</span></span>
+<span id="cb22-4"><a href="#cb22-4" aria-hidden="true" tabindex="-1"></a>    sale_price <span class="sc">&lt;</span> <span class="fu">quantile</span>(phl_sales_clean<span class="sc">$</span>sale_price, <span class="fl">0.99</span>, <span class="at">na.rm =</span> <span class="cn">TRUE</span>),</span>
+<span id="cb22-5"><a href="#cb22-5" aria-hidden="true" tabindex="-1"></a>    <span class="co"># Remove bathrooms &gt; 7</span></span>
+<span id="cb22-6"><a href="#cb22-6" aria-hidden="true" tabindex="-1"></a>    number_of_bathrooms <span class="sc">&lt;</span> <span class="dv">8</span>,</span>
+<span id="cb22-7"><a href="#cb22-7" aria-hidden="true" tabindex="-1"></a>    <span class="co"># Remove bedrooms &gt; 9</span></span>
+<span id="cb22-8"><a href="#cb22-8" aria-hidden="true" tabindex="-1"></a>    number_of_bedrooms <span class="sc">&lt;</span> <span class="dv">10</span></span>
+<span id="cb22-9"><a href="#cb22-9" aria-hidden="true" tabindex="-1"></a>  )<span class="sc">|&gt;</span></span>
+<span id="cb22-10"><a href="#cb22-10" aria-hidden="true" tabindex="-1"></a>  <span class="fu">mutate</span>(</span>
+<span id="cb22-11"><a href="#cb22-11" aria-hidden="true" tabindex="-1"></a>    <span class="co"># Age group buckets (new, middle_age, historic)</span></span>
+<span id="cb22-12"><a href="#cb22-12" aria-hidden="true" tabindex="-1"></a>    <span class="at">age_group =</span> <span class="fu">case_when</span>(</span>
+<span id="cb22-13"><a href="#cb22-13" aria-hidden="true" tabindex="-1"></a>      age <span class="sc">&lt;</span> <span class="dv">20</span> <span class="sc">~</span> <span class="st">"New (&lt;20)"</span>,</span>
+<span id="cb22-14"><a href="#cb22-14" aria-hidden="true" tabindex="-1"></a>      age <span class="sc">&lt;=</span> <span class="dv">80</span> <span class="sc">~</span> <span class="st">"Middle (20–80)"</span>,</span>
+<span id="cb22-15"><a href="#cb22-15" aria-hidden="true" tabindex="-1"></a>      age <span class="sc">&gt;</span> <span class="dv">80</span> <span class="sc">~</span> <span class="st">"Historic (&gt;80)"</span></span>
+<span id="cb22-16"><a href="#cb22-16" aria-hidden="true" tabindex="-1"></a>    ),</span>
+<span id="cb22-17"><a href="#cb22-17" aria-hidden="true" tabindex="-1"></a>    <span class="at">age_group =</span> <span class="fu">factor</span>(age_group, <span class="at">levels =</span> <span class="fu">c</span>(<span class="st">"New (&lt;20)"</span>, <span class="st">"Middle (20–80)"</span>, <span class="st">"Historic (&gt;80)"</span>))</span>
+<span id="cb22-18"><a href="#cb22-18" aria-hidden="true" tabindex="-1"></a>  )</span></code></pre></div><button title="Copy to Clipboard" class="code-copy-button"><i class="bi"></i></button></div>
 </div>
 </section>
 <section id="buffer-based-features" class="level3">
